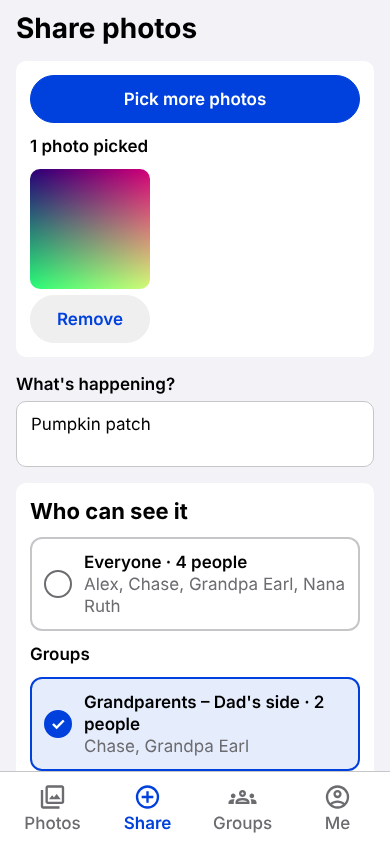
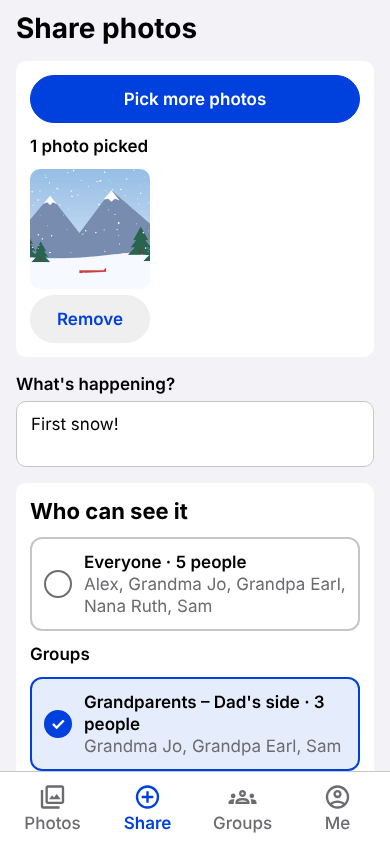
RR-4, RR-9, RR-12: one story; portfolio screenshots from the demo; INTAKE to host it
README and case study: 600+ app tests, 800+ database checks, eight agents,
how to build the demo. docs/portfolio/screens re-shot from the demo
(demo-screens.spec.js). New INTAKE for Product Studio: host the demo at
chaseholroyd.com/demo/hearth/, fix the page's households wording and counts.

Claude-Session: https://claude.ai/code/session_01M2LUbhzWDEwLsBio4thWhy

diff --git a/app/e2e-web/demo-screens.spec.js b/app/e2e-web/demo-screens.spec.js
@@ -1,0 +1,54 @@
+// Portfolio screenshots from the public demo (RR-9): drawn sample pictures, made-up family.
+// Skipped unless SNAPSHOT_DIR is set:
+//   SNAPSHOT_DIR=../docs/portfolio/screens npm run e2e:demo -- demo-screens.spec.js
+// Phone shots hide the demo bar so the app's own screens show; the laptop shot keeps the whole demo.
+const path = require('path');
+const { test, expect } = require('../../e2e/node_modules/@playwright/test');
+
+const DIR = process.env.SNAPSHOT_DIR;
+const PICTURE = path.join(__dirname, '..', 'public', 'demo-pictures', 'snow.jpg');
+const HIDE_BAR = '[data-testid="demo-bar"] { display: none !important; }';
+
+test('portfolio screenshots from the demo', async ({ page }) => {
+  test.skip(!DIR, 'set SNAPSHOT_DIR to take portfolio screenshots');
+  const shot = async (name) => { await page.waitForTimeout(600); await page.screenshot({ path: path.join(DIR, `${name}.png`) }); };
+
+  await page.setViewportSize({ width: 1280, height: 800 });
+  await page.goto('/');
+  await expect(page.getByText('Pumpkin patch day', { exact: true })).toBeVisible();
+  await shot('laptop-01-demo');
+
+  await page.setViewportSize({ width: 390, height: 844 });
+  await page.reload();
+  let hide = await page.addStyleTag({ content: HIDE_BAR });
+  await expect(page.getByText('Pumpkin patch day', { exact: true })).toBeVisible();
+  await shot('iphone-01-photos');
+
+  await page.getByRole('tab', { name: 'Share' }).click();
+  const chooser = page.waitForEvent('filechooser');
+  await page.getByRole('button', { name: 'Pick photos from your phone' }).click();
+  await (await chooser).setFiles(PICTURE);
+  await expect(page.getByText('1 photo picked')).toBeVisible();
+  await page.getByLabel("What's happening?").fill('First snow!');
+  await page.getByRole('checkbox', { name: /Grandparents – Dad's side/ }).click();
+  await shot('iphone-02-share');
+  await page.getByRole('button', { name: 'Post' }).click();
+  await expect(page.getByText('First snow!', { exact: true })).toBeVisible();
+  await shot('iphone-03-posted');
+
+  await page.getByRole('tab', { name: 'Groups' }).click();
+  await shot('iphone-04-groups');
+
+  await hide.evaluate((el) => el.remove());
+  await page.getByRole('button', { name: 'See the photos as Grandma Jo sees them' }).click();
+  await expect(page.getByText(/You're Grandma Jo/)).toBeVisible();
+  hide = await page.addStyleTag({ content: HIDE_BAR });
+  await expect(page.getByText('First snow!', { exact: true })).toBeVisible();
+  await shot('iphone-05-grandparent');
+  await page.getByRole('button', { name: /Open photo 1 of 1 full screen/ }).first().click();
+  await expect(page.getByRole('button', { name: 'Save to my phone' })).toBeVisible();
+  await shot('iphone-06-full-screen');
+  await page.getByRole('button', { name: 'Close' }).click();
+  await page.getByRole('tab', { name: 'Help' }).click();
+  await shot('iphone-07-help');
+});

diff --git a/app/e2e-web/playwright.demo.config.js b/app/e2e-web/playwright.demo.config.js
@@ -2,7 +2,7 @@
 const { defineConfig } = require('../../e2e/node_modules/@playwright/test');
 module.exports = defineConfig({
   testDir: '.',
-  testMatch: /demo\.spec\.js/,
+  testMatch: /demo(-screens)?\.spec\.js/,
   timeout: 90_000,
   expect: { timeout: 15_000 },
   retries: 0,

diff --git a/README.md b/README.md
@@ -5,10 +5,12 @@
 Built by Chase Holroyd, a product manager, as a working proof of concept: one person, a $20/month AI plan, and a team of Claude agents, test-first from day one.
 
 <p>
-  <img src="docs/portfolio/screens/iphone-02-share.png" width="200" alt="Share screen: pick photos, write a caption, pick who sees it">
-  <img src="docs/portfolio/screens/iphone-03-photos-poster.png" width="200" alt="Photos screen as the parent who posted">
-  <img src="docs/portfolio/screens/iphone-08-photos-grandparent.png" width="200" alt="Photos screen as a grandparent: big text, worded buttons">
+  <img src="docs/portfolio/screens/iphone-02-share.png" width="200" alt="Share screen: a picked photo, a caption, and the group that will see it">
+  <img src="docs/portfolio/screens/iphone-03-posted.png" width="200" alt="Photos screen as the parent: the new post says who it was shared with">
+  <img src="docs/portfolio/screens/iphone-05-grandparent.png" width="200" alt="Photos screen as a grandparent: bigger text, worded buttons, only what was shared with her">
 </p>
+
+<sub>Screens from the demo: a made-up family and drawn sample pictures.</sub>
 
 ## The problem
 
@@ -27,10 +29,10 @@ Families with divorces, remarriages and step-relatives don't fit one group chat.
 |---|---|
 | App | Expo SDK 57 (React Native, TypeScript strict), iPhone, Android and web from one codebase |
 | Backend | Supabase (Postgres with row-level security, Edge Functions), US East; Backblaze B2 for encrypted photos |
-| Tests | 596 app tests (Jest), 639 database checks (SQL), web end-to-end tests (Playwright), contract tests that run the same suite against a fake and the real backend |
+| Tests | 600+ app tests (Jest), 800+ database checks (SQL), web end-to-end tests (Playwright), contract tests that run the same suite against a fake and the real backend |
 | Process | Every change starts with a failing test that names its requirement. Every product decision gets a persona check, one Green or Red per relative type, and CI fails without it. Decisions are logged with what they beat |
 
-**An AI team with lanes.** The repo holds seven specialist agents: a staff PM, a QA engineer, an app engineer, a UI/UX designer who speaks for the grandparents, a privacy and security lead, a marketing partner and a funding analyst. The main Claude session works as chief of staff and routes each request to one lane. Chase sets the goals, makes the calls and owns the merge button.
+**An AI team with lanes.** The repo holds eight specialist agents: a staff PM, a QA engineer, an app engineer, a UI/UX designer who speaks for the grandparents, a UX reviewer for anything shown publicly, a privacy and security lead, a marketing partner and a funding analyst. The main Claude session works as chief of staff and routes each request to one lane. Chase sets the goals, makes the calls and owns the merge button.
 
 **Measured, not guessed.** `docs/eng/PERFORMANCE.md` holds speed budgets with tests that fail when one is missed. For example, JavaScript encryption measured about 370 ms per photo on a phone-like runtime, which led to parallel uploads and a switch to native or browser crypto wherever the runtime has it.
 
@@ -48,7 +50,7 @@ cd backend && bash tests/run.sh         # database tests (local Postgres 16)
 bash test-all.sh                        # everything
 ```
 
-The web build runs on a built-in fake backend, so you can try it with no accounts: `cd app && EXPO_PUBLIC_HEARTH_FAKE=1 npx expo start --web`.
+**Try the demo, no accounts:** `cd app && npm run build:demo-site` builds the public demo (a made-up family with sample pictures, kept in the browser, no backend) into `app/dist-demo-site/`, for chaseholroyd.com/demo/hearth/. To click through it locally: `npm run export:web:demo && node scripts/serve-dist.js dist-demo 8090`, then open http://127.0.0.1:8090. On a laptop it shows the app at phone width beside a short guide; "Grandma's view" shows that each photo reaches only the people it was shared with.
 
 ## Status
 

diff --git a/HANDOFF.md b/HANDOFF.md
@@ -2,8 +2,8 @@
 
 ## Portfolio / public presence
 - **Oct 22:** chaseholroyd.com/family-photos.html already shows Hearth under a placeholder name ("name coming"); Product Studio owns that page. Hearth handed Product Studio an INTAKE block (`docs/portfolio/INTAKE-2026-10-22.md`): refresh the test counts, add three sample-data iPhone screenshots from `docs/portfolio/screens/`, add the encryption and "no Seen by" points.
-- **Oct 22, recruiter-ready sprint v2:** review in `docs/reviews/2026-10-22-recruiter-ready.md` (RR-1..16: 5 P0, 7 P1, 4 P2). Main gap: no no-login sample-data demo. Fix loop builds one (demo build, sample pictures, demo bar, laptop frame) for Product Studio to host at chaseholroyd.com/demo/hearth/. Round 1a done: demo build with a sample family, demo bar, Grandma's view (`npm run export:web:demo`, `npm run e2e:demo`). Round 1b done: laptop frame with a story panel, plain not-found page. Round 1c done: `npm run build:demo-site` builds the demo for chaseholroyd.com/demo/hearth/ (tested on a Pages-like static server). **Exact next step:** RR-4/RR-9/RR-12 (README numbers and demo section, portfolio screenshots re-shot from the demo, a new INTAKE for Product Studio to host the demo and fix the page).
-- **Don't link publicly yet:** the web build (it's the live app on the family's real backend, sign-in only, not a demo) or the repo (private until the name is final, then AGPL-3.0 per DEC-7). A public no-login demo needs a sample-data web build on its own URL; not built.
+- **Oct 22, recruiter-ready sprint v2:** review in `docs/reviews/2026-10-22-recruiter-ready.md` (RR-1..16: 5 P0, 7 P1, 4 P2). Main gap: no no-login sample-data demo. Fix loop builds one (demo build, sample pictures, demo bar, laptop frame) for Product Studio to host at chaseholroyd.com/demo/hearth/. Round 1a done: demo build with a sample family, demo bar, Grandma's view (`npm run export:web:demo`, `npm run e2e:demo`). Round 1b done: laptop frame with a story panel, plain not-found page. Round 1c done: `npm run build:demo-site` builds the demo for chaseholroyd.com/demo/hearth/ (tested on a Pages-like static server). Round 1d done: README and case study agree (600+ app tests, 800+ database checks, eight agents, demo), portfolio screenshots re-shot from the demo, new INTAKE. **Exact next step:** round 2: rebuild, re-screenshot every screen (showcase.spec.js on the demo), re-check RR fixes, then RR-11 (household words, grandparent-ux), RR-13 (test-all exit code), RR-15 (viewer reload on a static host).
+- **Don't link publicly:** the expo.app web build (the live app on the family's real backend, sign-in only) or the repo (private until the name is final, then AGPL-3.0 per DEC-7). The public no-login demo is built (`app/scripts/build-demo.sh`) for chaseholroyd.com/demo/hearth/; Product Studio hosts it from `docs/portfolio/INTAKE-2026-10-22-demo.md` (Chase pastes it there), which also fixes the page's households wording and test counts and swaps in screenshots from the demo.
 
 ## Oct 22: studio ux-reviewer synced (recruiter-ready sprint)
 - Synced `ux-reviewer` from studio-agents (PR #6 branch `claude/project-thread-wvkxmq`, showcase review mode) with `scripts/sync.sh`; roster row added to `CLAUDE.md`. The rest of `examples/hearth/MIGRATION.md` (swap staff-pm, qa-tdd, privacy-security, app-engineer and marketing for the generic ones, archive funding-analyst) is not done: those Hearth agents carry Hearth-only facts, so it waits for after the Nov 22 beta (TRACKER row R16). Decision to review.

diff --git a/docs/portfolio/INTAKE-2026-10-22-demo.md b/docs/portfolio/INTAKE-2026-10-22-demo.md
@@ -1,0 +1,30 @@
+INTAKE for Product Studio (from Hearth, Oct 22, 2026, recruiter-ready sprint). Replaces INTAKE-2026-10-22.md.
+
+Repo: holroydchase-afk.github.io (portfolio). Page: family-photos.html (`family = product(...)` in tools/build.py). Owner: Product Studio. Keep the placeholder name and "name coming"; the name isn't final.
+
+1. Host the no-login demo at chaseholroyd.com/demo/hearth/ (like demo/role-radar/).
+   - Build it from the Hearth repo (private; add holroydchase-afk/Hearth to the session), on Hearth's main once its PRs #37 to #42 are merged:
+     cd app && npm ci && bash scripts/build-demo.sh
+   - Copy everything in app/dist-demo-site/ into demo/hearth/ in the portfolio repo. It's static (about 4 MB), already built for the /demo/hearth/ path, with a copy of index.html in each tab's folder because Pages has no fallback.
+   - What it is: a made-up family ("Mia and Leo", parent "Sam", Grandma Jo…) with drawn sample pictures, kept in the visitor's browser only, no backend, no sign-in. A bar on every screen says so and links back to family-photos.html. On a laptop it shows the app at phone width beside a short guide.
+   - Hearth checked it on a Pages-like local server (no fallback, 404s): app/e2e-web/site.spec.js. Not checked on the live site; please open chaseholroyd.com/demo/hearth/ and /demo/hearth/photos after publishing.
+
+2. Page fixes on family-photos.html (one story with the Hearth README and case study, Oct 22):
+   - Add a primary button "Try the demo" → demo/hearth/ (links=[("Try the demo", "demo/hearth/")]).
+   - "Groups and households: share with Everyone, one side of the family, a single house, or an event like a birthday trip." → "Groups you name: share with Everyone, one side of the family, or an event like a birthday trip. One person can be in several groups." (The fixed household tree was dropped for plain named groups.)
+   - "600+ backend checks and 340 app tests" → "600+ app tests and 800+ database checks".
+   - Agents: eight (staff PM, QA, app engineer, UI/UX for grandparents, UX reviewer for public work, privacy and security, marketing, funding), routed by a chief-of-staff session.
+   - Keep: photos encrypted on the phone (AES-256-GCM) before upload; group chat end-to-end encrypted with MLS (RFC 9420); no "Seen by 3 of 8" count, a returned heart shows the photo arrived.
+
+3. Screenshots (sample data only, drawn pictures, no real people), from docs/portfolio/screens/ in the Hearth repo, e.g. into assets/family/:
+   - laptop-01-demo.png (alt: "The demo on a laptop: the app beside a short guide")
+   - iphone-02-share.png (alt: "Share screen: a picked photo, a caption, and the group that will see it")
+   - iphone-03-posted.png (alt: "Photos as the parent: the new post says who it was shared with")
+   - iphone-05-grandparent.png (alt: "Photos as a grandparent: bigger text, only what was shared with her")
+   The files named in the earlier INTAKE (iphone-03-photos-poster, iphone-08-photos-grandparent) no longer exist.
+
+4. Do not link: thefreighttrains-team-hearth.expo.app (the live app on the family's real backend, sign-in only) or github.com/holroydchase-afk/Hearth (private until the name is final, then AGPL-3.0). Keep "The code is private."
+
+5. Status stays "Private beta soon"; beta target late November, about a dozen family members.
+
+After shipping: log it under "Portfolio / public presence" in Hearth's HANDOFF.md and in STUDIO-STATUS.md.

diff --git a/docs/portfolio/CASE-STUDY.md b/docs/portfolio/CASE-STUDY.md
@@ -20,14 +20,15 @@ Chase's family is "distributed": divorces, remarriages, step-grandparents, relat
 
 ## How the work runs
 
-- **An agent team with lanes:** staff PM, QA, app engineer, UI/UX designer, privacy and security, marketing and funding. The founder writes goals and makes calls. Agents work one lane at a time, test-first, and open pull requests. Nothing merges without the founder's word.
+- **An agent team with lanes:** staff PM, QA, app engineer, UI/UX designer, UX reviewer for public work, privacy and security, marketing and funding. The founder writes goals and makes calls. Agents work one lane at a time, test-first, and open pull requests. Nothing merges without the founder's word.
 - **Night shift:** before bed, one instruction schedules an unattended 2:15am run. On the first night it reviewed the app from the code, ranked 14 items, and shipped parallel uploads, a fix for the photo framing the founder had reported, and a cipher switch. It also checked the messenger's encryption against the RFC 9180 test vectors.
 - **Decision log:** 30 decisions, each with what it beat and why. That makes the story retellable and reviewable.
 
 ## Results so far
 
 - The core flow works end to end on a phone. You sign in with a 6-digit code, pick photos and choose who sees them. Relatives heart and reply, and email notices arrive.
-- 596 app tests, 639 database checks, contract tests against both a fake and the real backend, and web end-to-end tests.
+- 600+ app tests, 800+ database checks, contract tests against both a fake and the real backend, and web end-to-end tests.
+- A no-login demo with a made-up family shows the core idea in under two minutes: switch to Grandma's view and see only what was shared with her.
 - Privacy built in from the start: location and camera data stripped on the phone and verified, photos encrypted on the phone, end-to-end encrypted group chat (MLS), and access rules enforced in the database.
 
 ## What's next

diff --git a/docs/reviews/2026-10-22-recruiter-ready.md b/docs/reviews/2026-10-22-recruiter-ready.md
@@ -73,6 +73,12 @@ P0 blocks showing it. P1 hurts the impression. P2 is polish.
 - `app/scripts/serve-static.js` mimics GitHub Pages (no fallback, slash redirect, 404). `e2e-web/site.spec.js` (DEMO-5): a cold load of `/demo/hearth/`, `/photos`, `/share`, `/groups`, `/me`, pictures drawn, no 4xx, links stay under the demo or go to chaseholroyd.com, Grandma's view and Start over stay under the path. 7/7.
 - Still open (RR-15, P2): reloading a full-screen photo's address (`/viewer/<id>`) hits the host's 404.
 
+## Round 1d: one story (#42)
+
+- **RR-4 / RR-12:** README and case study now say 600+ app tests and 800+ database checks (rounded, so they don't go stale with each PR), eight agents, and how to build and run the demo. The README screenshots come from the demo.
+- **RR-9:** `docs/portfolio/screens/` re-shot from the demo by `e2e-web/demo-screens.spec.js` (7 phone screens with the demo bar hidden, plus `laptop-01-demo.png` with it). The old rainbow-gradient shots are gone.
+- **RR-4 (portfolio page):** `docs/portfolio/INTAKE-2026-10-22-demo.md` for Product Studio: host the demo at /demo/hearth/, add "Try the demo", fix "Groups and households" and the test counts, new screenshots. It replaces the INTAKE in PR #36. RR-4 stays open until Product Studio ships it.
+
 ## Status
 
 | Round | Fixed | New | Left |
@@ -81,3 +87,4 @@ P0 blocks showing it. P1 hurts the impression. P2 is polish.
 | 1a (demo mode, #39) | RR-1, RR-2, RR-3, RR-8, RR-9 (in the demo), RR-10, RR-14 | – | P0: RR-4, RR-5. P1: RR-6, RR-7, RR-9 (portfolio screenshots), RR-11, RR-12. P2: RR-13, RR-15, RR-16 |
 | 1b (#40) | RR-6, RR-7 | – | P0: RR-4, RR-5. P1: RR-9 (portfolio screenshots), RR-11, RR-12. P2: RR-13, RR-15, RR-16 |
 | 1c (#41) | RR-5 | – | P0: RR-4. P1: RR-9 (portfolio screenshots), RR-11, RR-12. P2: RR-13, RR-15, RR-16 |
+| 1d (#42) | RR-9, RR-12; RR-4 on Hearth's side | – | P0: RR-4 (waits on Product Studio). P1: RR-11. P2: RR-13, RR-15, RR-16 |

diff --git a/docs/portfolio/INTAKE-2026-10-22.md b/docs/portfolio/INTAKE-2026-10-22.md
@@ -1,3 +1,5 @@
+**Superseded by `INTAKE-2026-10-22-demo.md` (recruiter-ready sprint): use that one.**
+
 INTAKE for Product Studio (from Hearth, Oct 22, 2026)
 
 Repo: holroydchase-afk.github.io (portfolio). Page: family-photos.html (`family = product(...)` in tools/build.py). Owner: Product Studio.
